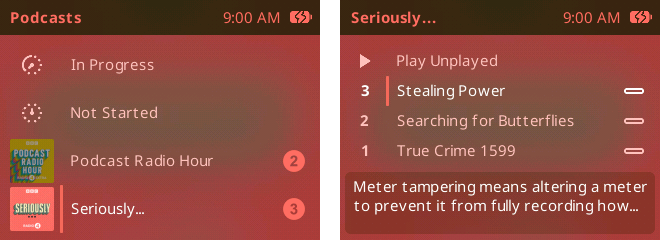
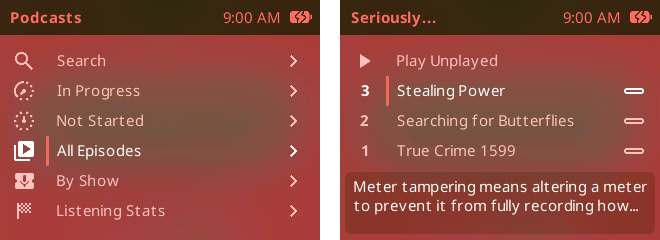
README: Select Action and Select + Play, Extra Rows; new screenshots
The Podcasts screenshot shows the new menu, and the art colours one is
retaken.

Claude-Session: https://claude.ai/code/session_01HTB8iN9HHAVvFnBQRnrPQo

diff --git a/README.md b/README.md
@@ -50,6 +50,9 @@ panels and a spectrum visualiser. It comes in two variants with different Now Pl
   screen
   - Off by default. `Settings > Appearance > Now Playing Screen > Trim Titles`
   - Add your own patterns in `.rockbox/library/user/trim.txt`, which an update leaves alone
+- Choose what Select, and Select and Play pressed together, do on the Now Playing screen: open
+  the queue, the lyrics, Music, Album Covers and more
+  - `Settings > Playback > Now Playing Screen > Select Action` and `Select + Play`
 - Message, input, confirmation, search, colour, date and time and folder dialogs share one
   themed design
   - `Settings > Appearance > Dialogs`
@@ -85,6 +88,10 @@ or promoted onto the main menu.
 - Shuffle albums rather than tracks: every album in a list, in a random order, each whole and in
   order
   - `[Shuffle Albums]` at the top of any list of two or more albums
+- Hide the [All Tracks], [Random] and [Shuffle Albums] rows at the top of the Music lists
+  - `Settings > Library > Music > Extra Rows`
+  - Hiding [All Tracks] only hides the row: playing an artist or genre from its menu still
+    plays every track
 - See an album's cover, artist, year, track count and length above its tracks
   - Theme dependent. Scrim shows it, and `Album Header` in its Theme Options turns it off
 - See your most played, most recently played and forgotten albums and artists
